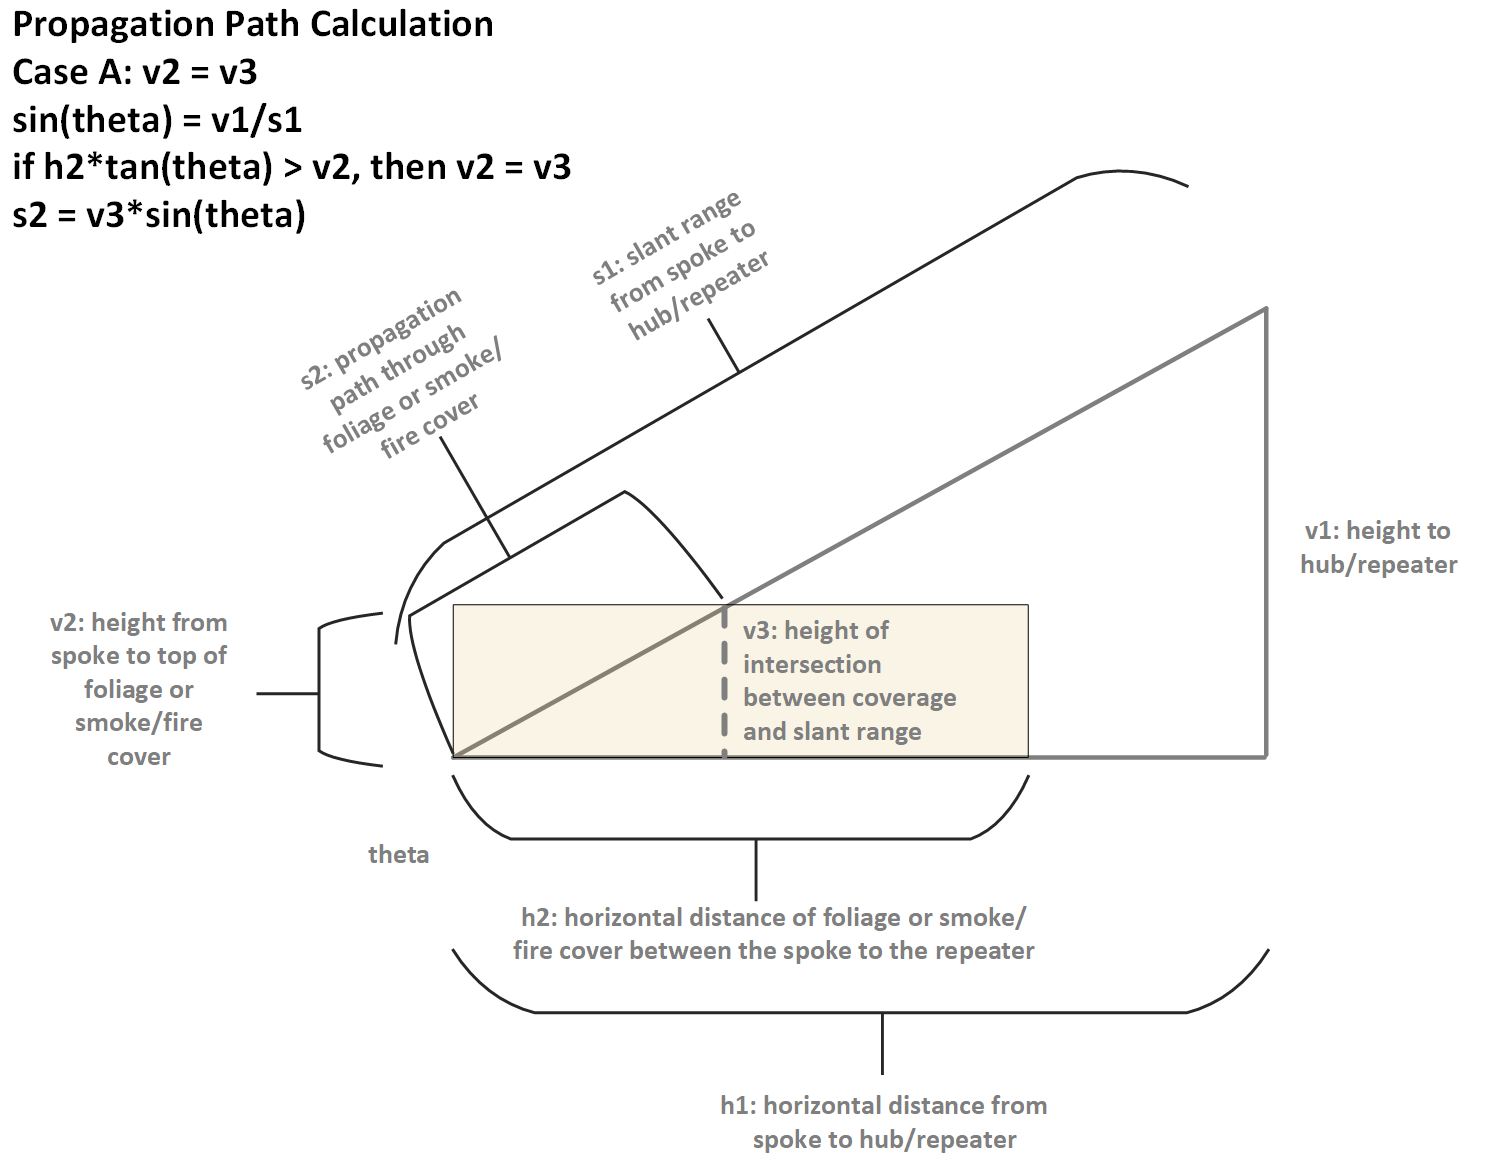
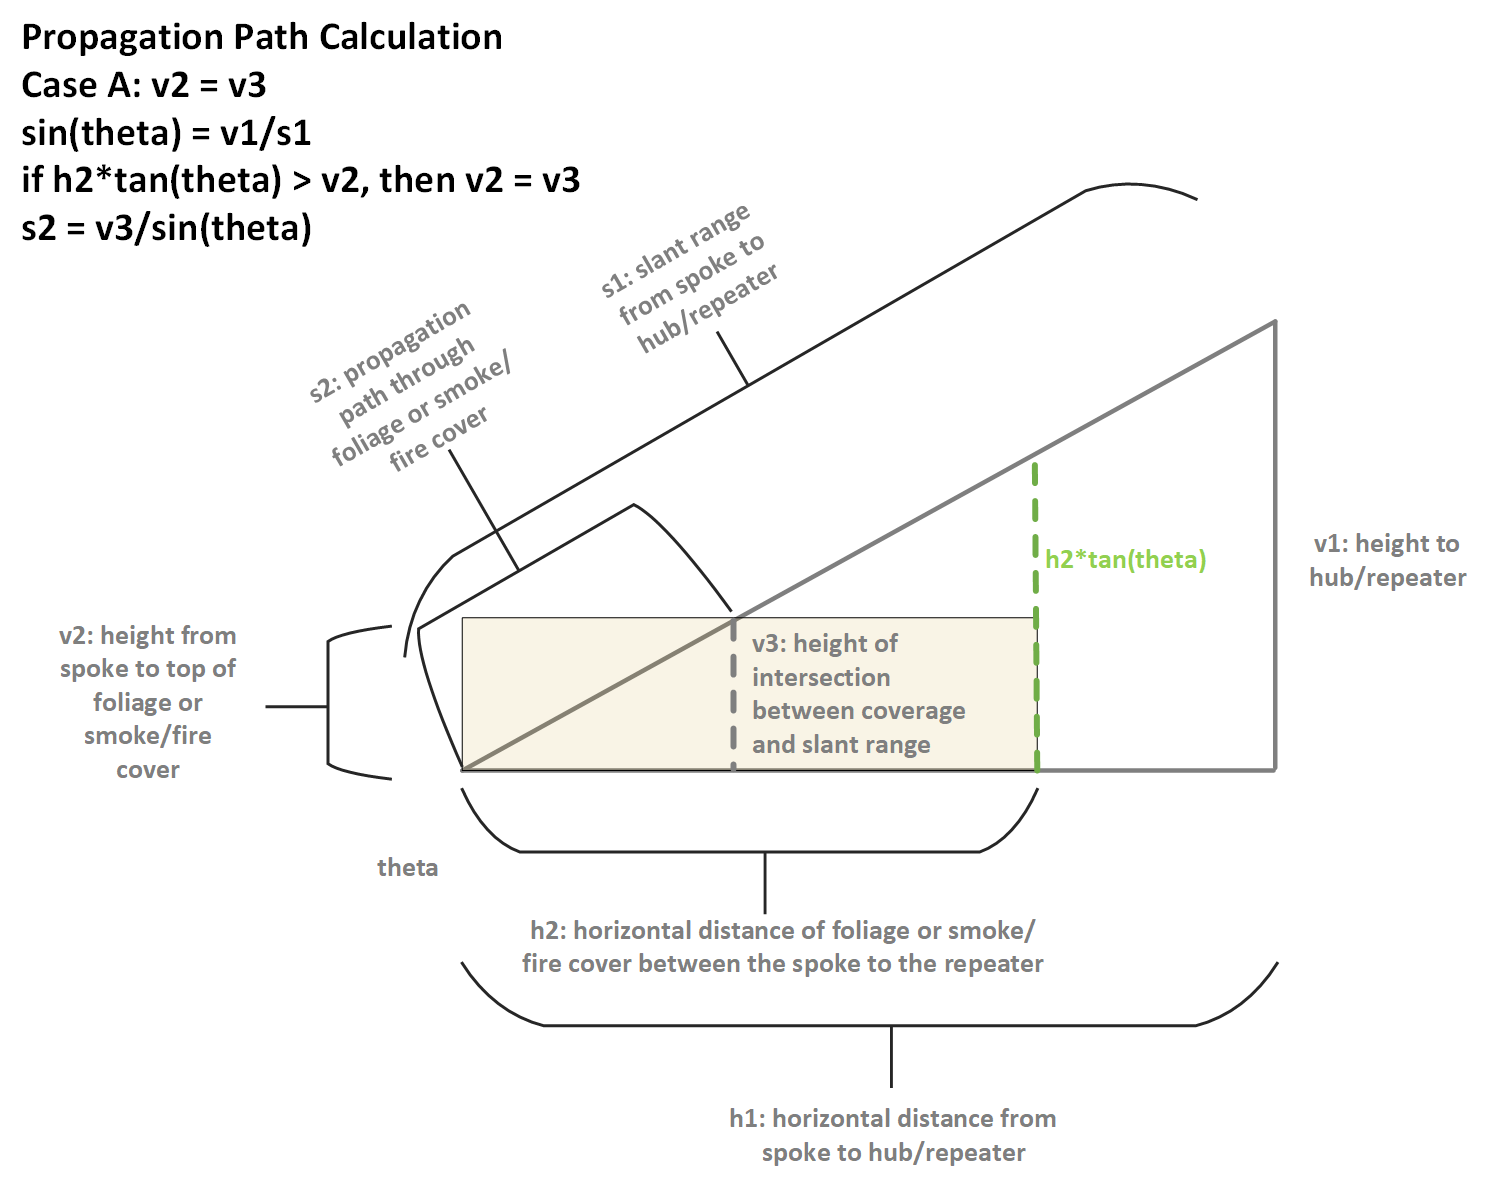
Crushing bug with propagation path length

diff --git a/calculatePropagationPathTester.m b/calculatePropagationPathTester.m
@@ -1,0 +1,102 @@
+classdef calculatePropagationPathTester < matlab.unittest.TestCase
+    % calculatePropagationPathTester Tests propagation path calculations
+    %   OUTPUTS:
+    %       s2: the propagation path through fire/smoke or through
+    %       foliage, in meters
+    %   INPUTS:
+    %       s1: the slant range from the spoke to the hub/repeater, in meters
+    %       v1: the height from the spoke to the hub/repeater, in meters
+    %       v2: the maximum height of the cover due to foliage, smoke, or fire,
+    %               in meters
+    %       h1: horizontal distance from spoke to hub/repeater
+    %       h2: the maximum horizontal distance of foliage or smoke/fire cover 
+    %           between the spoke to the repeater
+    
+    methods (Test)
+        function testPropagationPathCalc1(testCase)
+            
+            %%%%%%%%%%%%%%%
+            % Define inputs where:
+            %   v2>>v1
+            %   h1 == h2
+            %   And therefore
+            %   s1 = s2
+            %%%%%%%%%%%%%%%%
+            
+            v1 = 5; %5m
+            v2 = 1000; % 1km
+            h1 = 3000; % 3km
+            h2 = 3000; % 3km   
+            s1 = sqrt(h1^2 + v1^2);
+            
+            % Expected output
+            exps2 = s1;
+            
+            % Calculated output
+            acts2 = calculatePropagationPath(s1,v1,v2,h1,h2);
+            
+            % Verify output
+            testCase.verifyEqual(acts2,exps2);
+            
+        end
+        
+        function testPropagationPathCalc2(testCase)
+            
+            %%%%%%%%%%%%%%%
+            % Define inputs where:
+            %   v2>>v1
+            %   h2 > h1 [code should run as if h2 == h1]
+            %   And therefore
+            %   s1 = s2
+            %%%%%%%%%%%%%%%%
+            
+            v1 = 5; %5m
+            v2 = 1000; % 1km
+            h1 = 3000; % 3km
+            h2 = 5000; % 3km   
+            s1 = sqrt(h1^2 + v1^2);
+            
+            % Expected output
+            exps2 = s1;
+            
+            % Calculated output
+            acts2 = calculatePropagationPath(s1,v1,v2,h1,h2);
+            
+            % Verify output
+            testCase.verifyEqual(acts2,exps2);
+            
+        end
+        
+        function testPropagationPathCalc3(testCase)
+            
+            %%%%%%%%%%%%%%%
+            % Define inputs where:
+            %   h2 == v2 
+            %   v1 == h1
+            %   We have two right triangles, and therefore
+            %   s2 == sqrt(h2^ + v^2)
+            %%%%%%%%%%%%%%%%
+            
+            v1 = 3000; %3km
+            h1 = 3000; % 3km
+            
+            v2 = 2000; % 2km
+            h2 = 2000; % 2km 
+              
+            s1 = sqrt(h1^2 + v1^2);
+            
+            % Expected output
+            exps2 = sqrt(h2^2 + v2^2);
+            
+            % Calculated output
+            acts2 = calculatePropagationPath(s1,v1,v2,h1,h2);
+            
+            % Verify output
+            testCase.verifyEqual(acts2,exps2, ...
+                'RelTol',0.00001);
+            
+        end
+    end
+    
+end 
+

diff --git a/calculatePropagationPath.m b/calculatePropagationPath.m
@@ -30,13 +30,13 @@ end
 % Find the sine of the triangle
 sinTheta = v1/s1;
 
-% Find angle theta (in degrees)
-theta = asind(sinTheta);
+% Find angle theta (in radians)
+theta = asin(sinTheta);
 
-% Find the Tangent of theta (where the input of theta is in degrees)
-tanTheta = tand(theta);
+% Find tangent of theta
+tanTheta = tan(theta);
 
-if h2*tanTheta > v2
+if (h2*tanTheta) > v2
     %   Case A: v2 = v3
     %   https://github.com/cap273/FirstResponderComms/blob/master/propagationPathCalculationCaseA.png
     v3 = v2;
@@ -49,7 +49,7 @@ else
 end
 
 % Find propagation path
-s2 = v3*sinTheta;
+s2 = v3/sinTheta;
 
 end
 

diff --git a/main.m b/main.m
@@ -1090,7 +1090,7 @@ NUM_POSSIBLE_ARCHS = size(architectures,1);
  end
  
  %% Pareto front
- 
+ %{
  if (runParetoFrontAnalysis == 1)
      % Initialize array where entry i is equal to 1 if architecture i is 
      % dominated, zero otherwise
@@ -1131,6 +1131,8 @@ NUM_POSSIBLE_ARCHS = size(architectures,1);
      tElapsed = toc;
      fprintf(['Elapsed time to complete Pareto front analysis (in seconds): ' int2str(round(tElapsed)) '\n']);
  end
+ %}
+ 
  %% Visualization
  
  fprintf('Visualization activities...\n');

diff --git a/runUnitTests.m b/runUnitTests.m
@@ -14,3 +14,7 @@ res1 = run(testCase1) %#ok<NOPTS>
 %% Run matrixOpsTester unit test
 testCase2 = matrixOpsTester;
 res2 = run(testCase2) %#ok<NOPTS>
+
+%% Run calculatePropagationPathTester unit test
+testCase3 = calculatePropagationPathTester;
+res3 = run(testCase3) %#ok<NOPTS>
